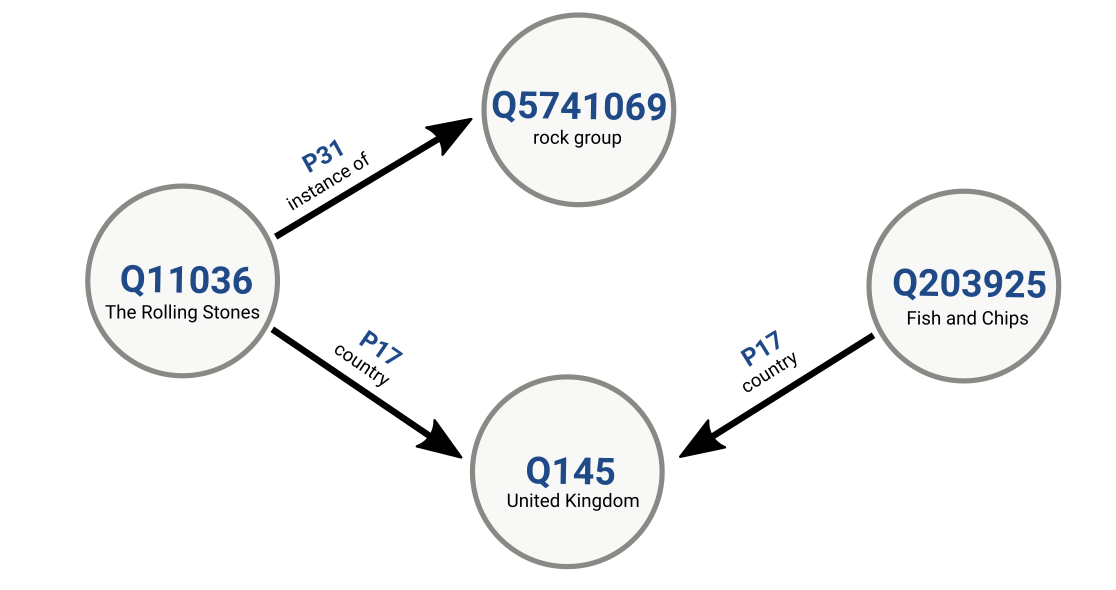
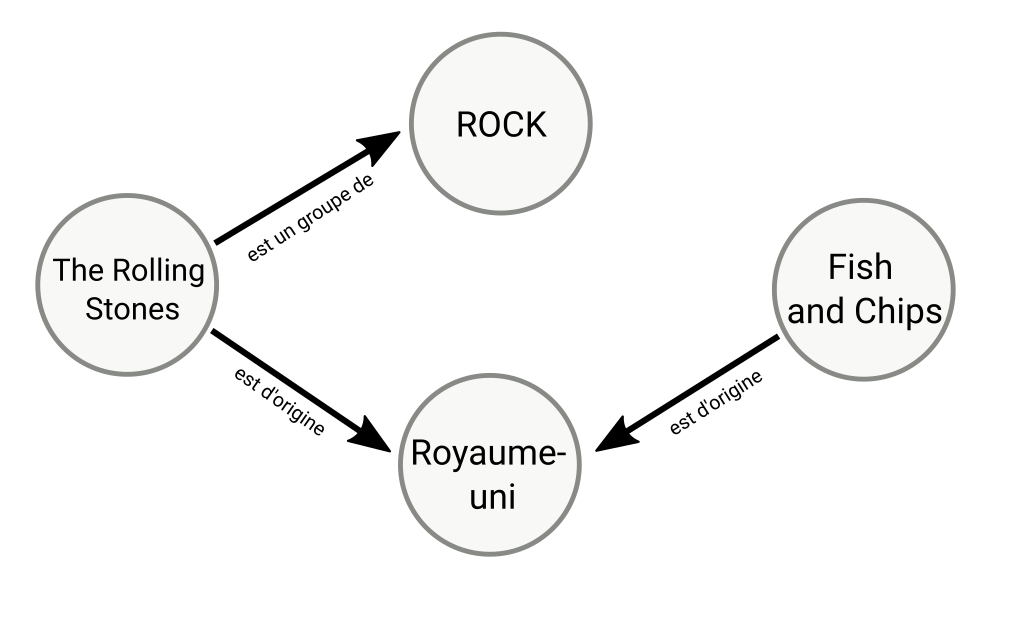
ajout d'une image

Changed region(s): [[0.0307, 0.0, 0.9505, 0.9763], [0.8892, 0.3356, 0.9199, 0.3661]]

diff --git a/content/wikidata.md b/content/wikidata.md
@@ -17,9 +17,18 @@ Dans ce billet, je vous propose d'explorer l'ontologie de [Wikipedia](https://fr
 Une ontologie est une façon d'organiser le savoir en reliant de nombreux concepts entre eux. Plus exactement, c'est un [graphe](https://fr.wikipedia.org/wiki/Graphe) construit à partir d'un ensemble de [triplets](https://fr.wikipedia.org/wiki/Triplet_RDF) composé chacun  d'un *sujet*, d'un *prédicat* et d'un *objet*.     
 Par exemple, les 3 triplets suivant permettent de relier les [Rolling Stones](https://www.wikidata.org/wiki/Q11036) au [Fish and Chips](https://www.wikidata.org/wiki/Q203925). 
 
-	<The Rolling Stones>   <est d'origine du>   <Royaume uni>
-	<The Rolling Stones>   <est un groupe de>   <Rock>
-	<Le Fish and Chips>    <est d'origine du>   <Royaume uni>
+```
+# SUJET                 PREDICAT             OBJET
+<The Rolling Stones>   <est d'origine du>   <Royaume uni>
+<The Rolling Stones>   <est un groupe de>   <Rock>
+<Le Fish and Chips>    <est d'origine du>   <Royaume uni>
+```
+
+<div class="figure">
+<img src="../images/wikidata/graphe.png" />
+<div class="legend"> Exemple d'ontologie </div>
+</div>
+
 
 Dans une ontologie, les concepts sont définis par un identifiant unique.       
 Sur wikidata, Le concept "*Rolling Stones*" porte l'identifiant [Q11036](https://www.wikidata.org/wiki/Q11036) et le concept "*Fish and Chips*" porte l'identifiant [Q203925](https://www.wikidata.org/wiki/Q203925). Il en est de même pour les prédicats et les objets. Ainsi, les triplets précédents peuvent s'écrire de la manière suivante:
